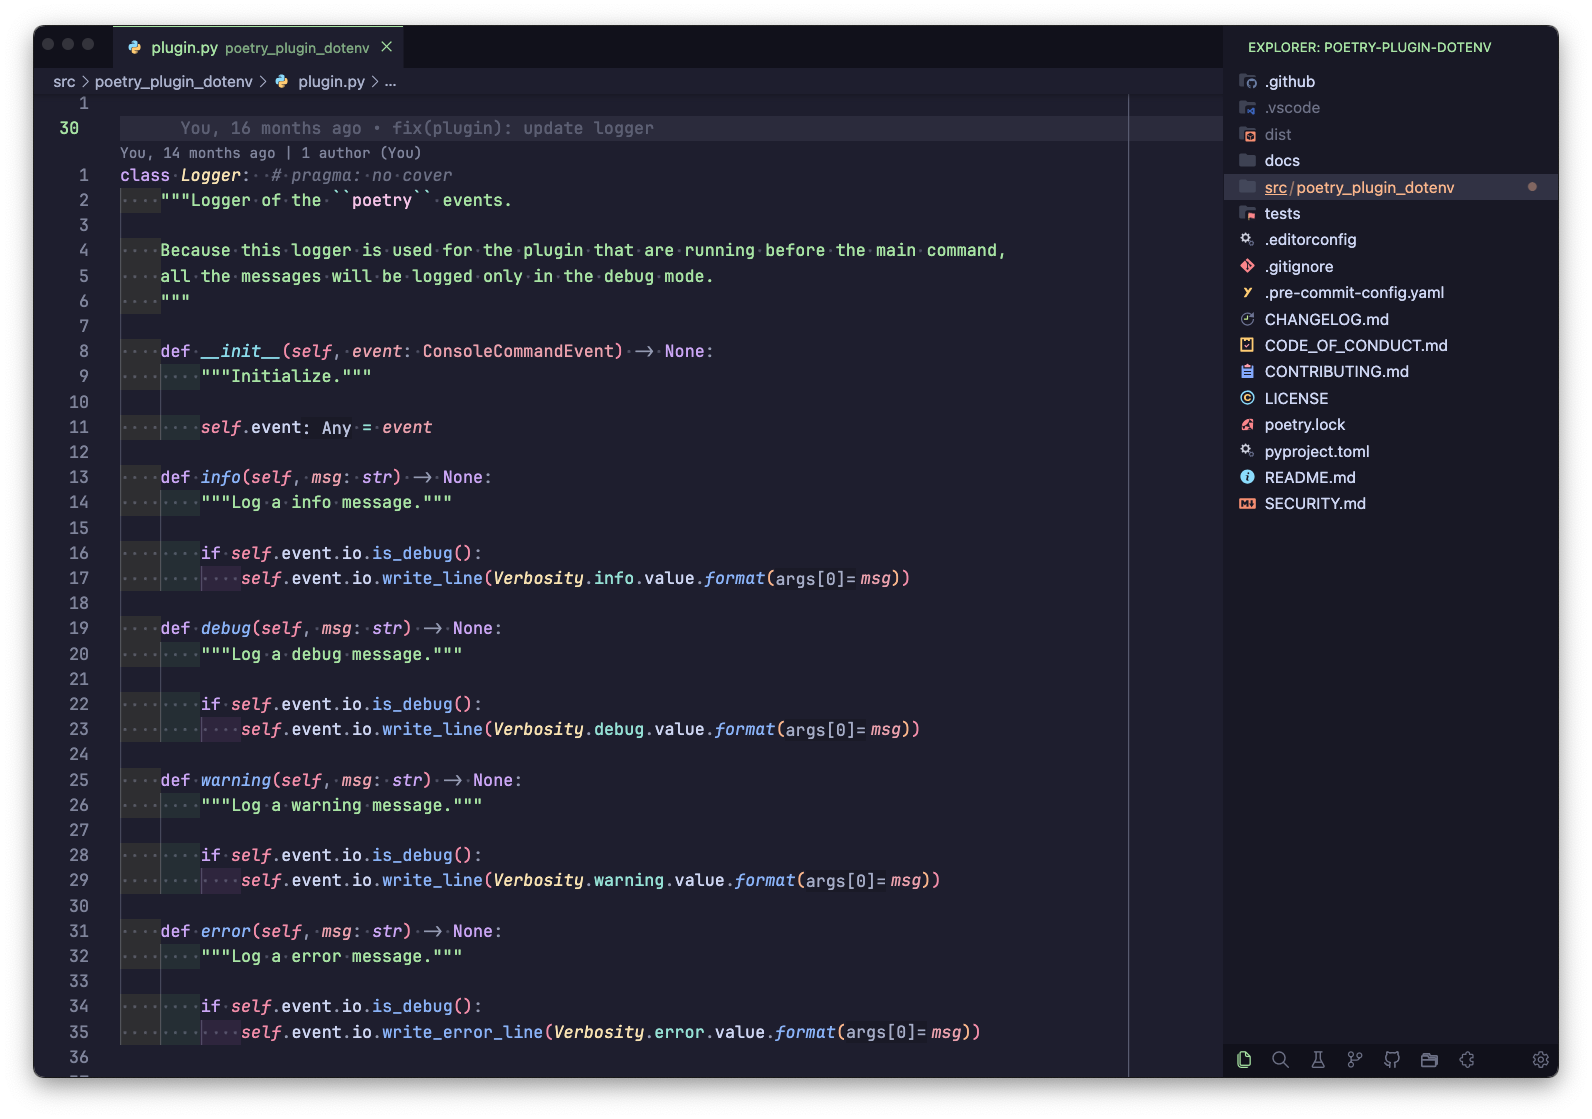
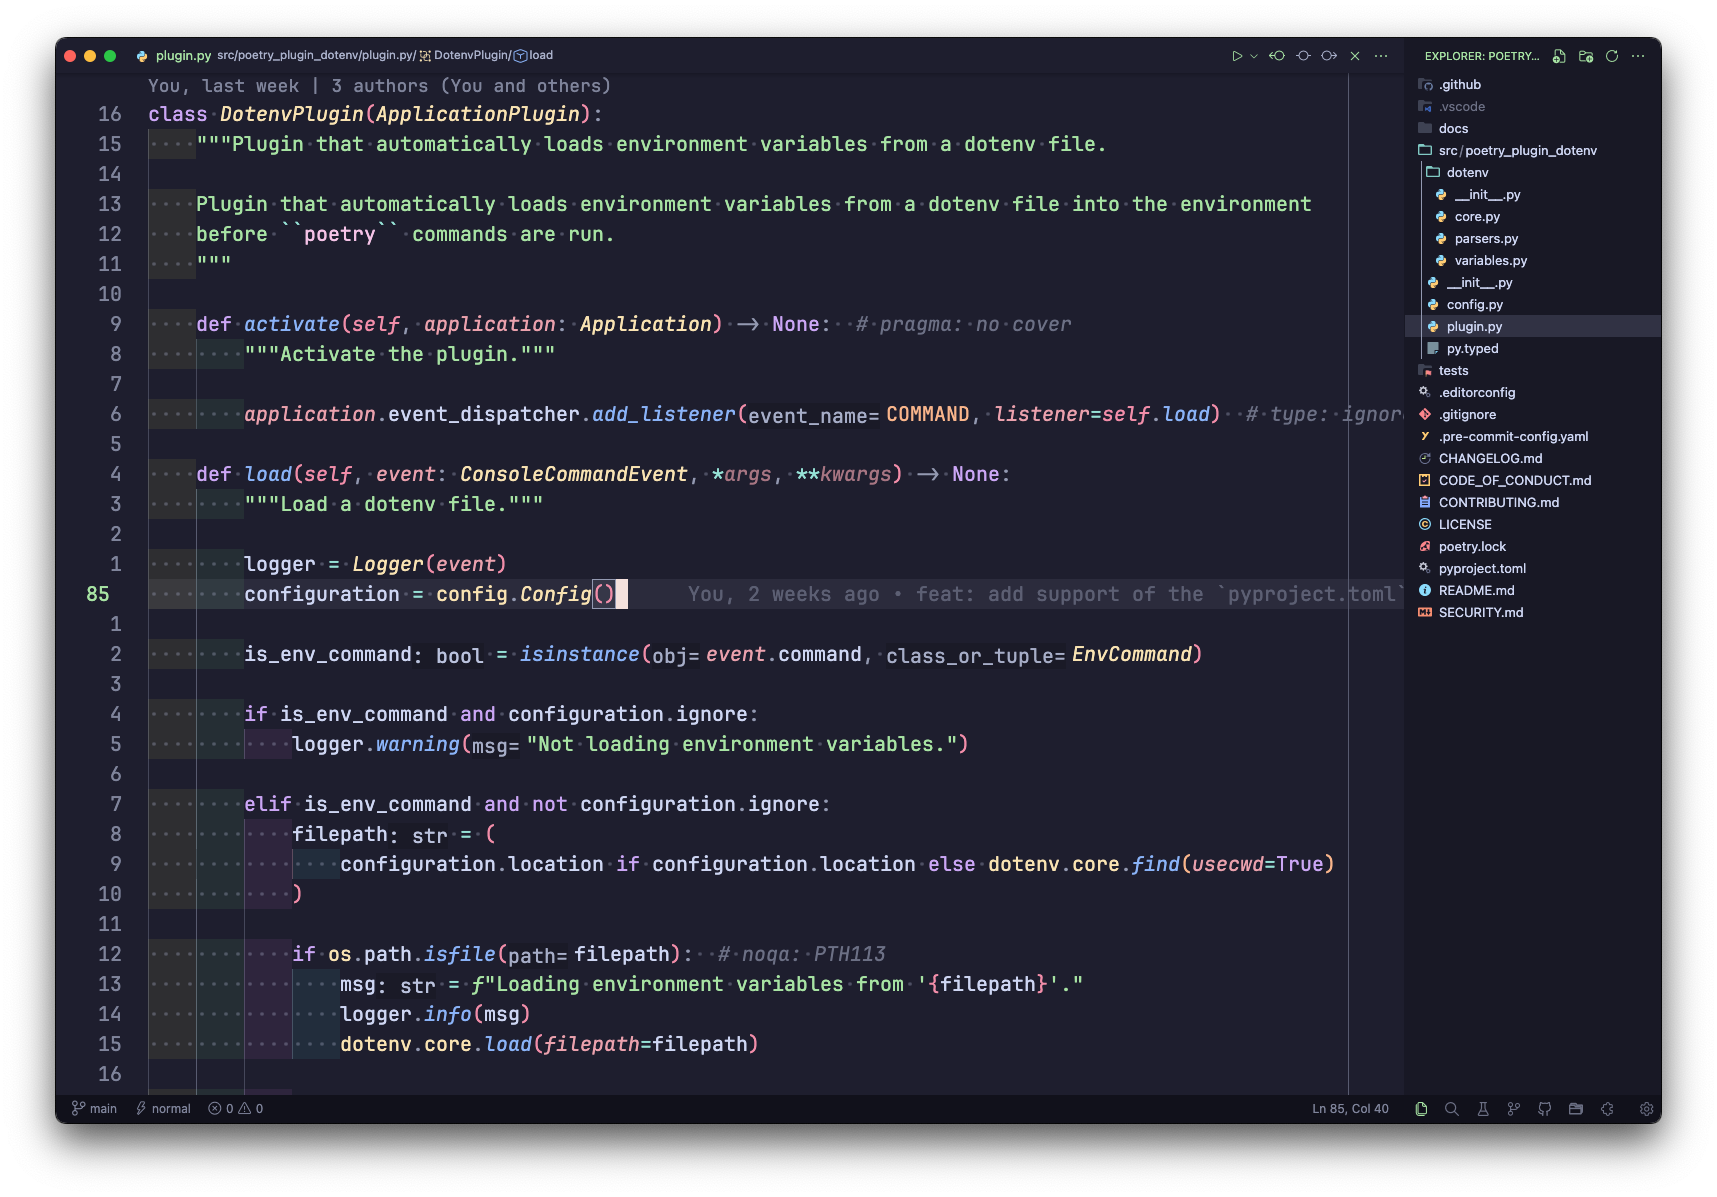
docs(README): update VSCode preview

diff --git a/README.md b/README.md
@@ -87,9 +87,7 @@ I also sync apps from the App Store with `brew` via [`mas`], so the resulting [`
 
 ## VSCode
 
-<p align="center">
-  <img alt="vscode" src="https://raw.githubusercontent.com/pivoshenko/dotfiles/master/docs/assets/vscode.png">
-</p>
+![vscode](https://raw.githubusercontent.com/pivoshenko/dotfiles/master/docs/assets/vscode.png)
 
 Here's a list of [`extensions`] I use daily, but I try to keep my `VSCode` setup as simple as possible.
 It was also heavily influenced by [`makevscodeawesome`].